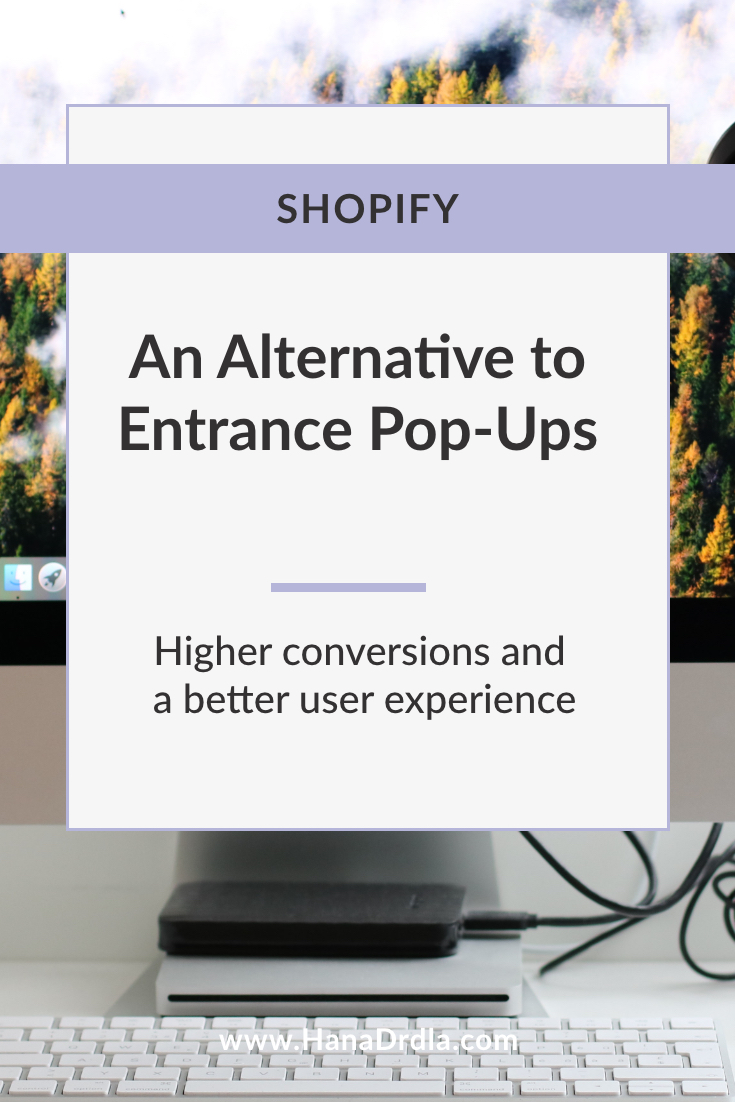
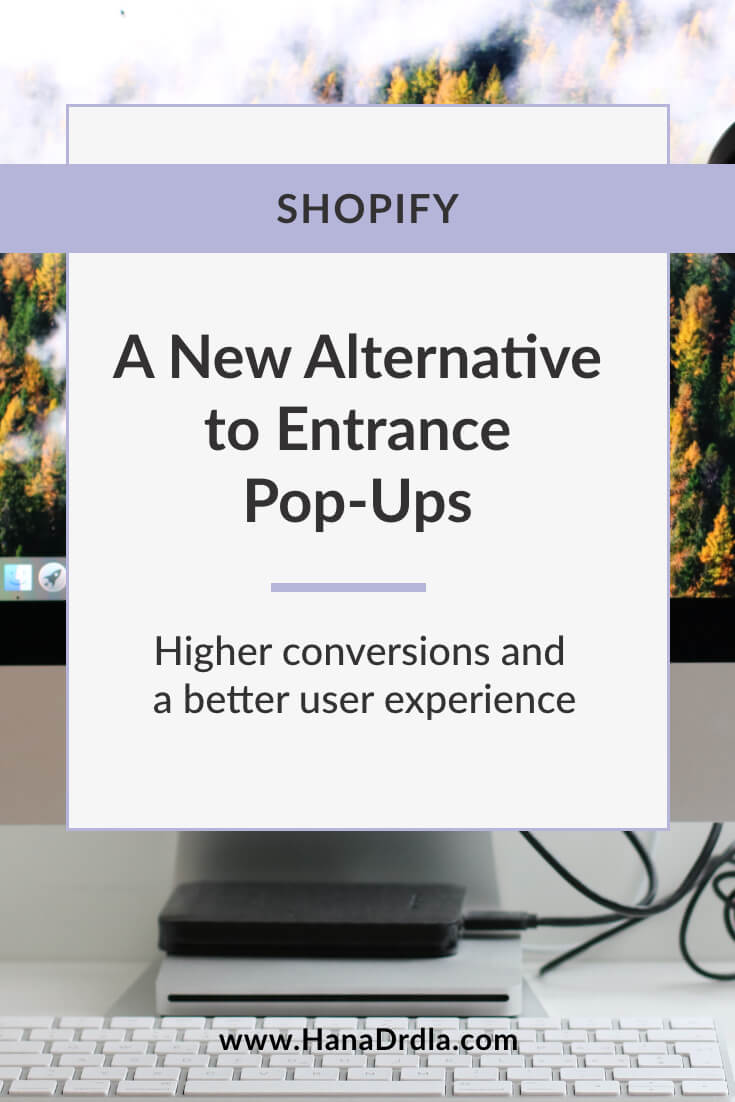
font plugin

Changed region(s): [[0.1497, 0.2777, 0.8381, 0.4936], [0.2993, 0.9256, 0.7184, 0.9564]]

diff --git a/gatsby-config.js b/gatsby-config.js
@@ -55,14 +55,10 @@ module.exports = {
     `gatsby-plugin-sass`,
     `gatsby-plugin-fontawesome-css`,
     {
-      resolve: `gatsby-plugin-prefetch-google-fonts`,
+      resolve: `gatsby-plugin-google-fonts`,
       options: {
-        fonts: [
-          {
-            family: `Lato`,
-            variants: [`400`, `700`, `900`],
-          },
-        ],
+        fonts: [`lato:400,700,900`],
+        display: "swap",
       },
     },
     {
